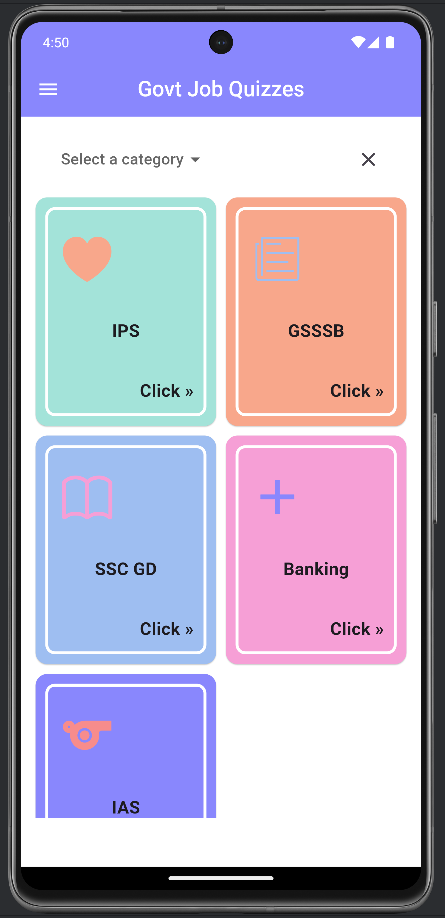
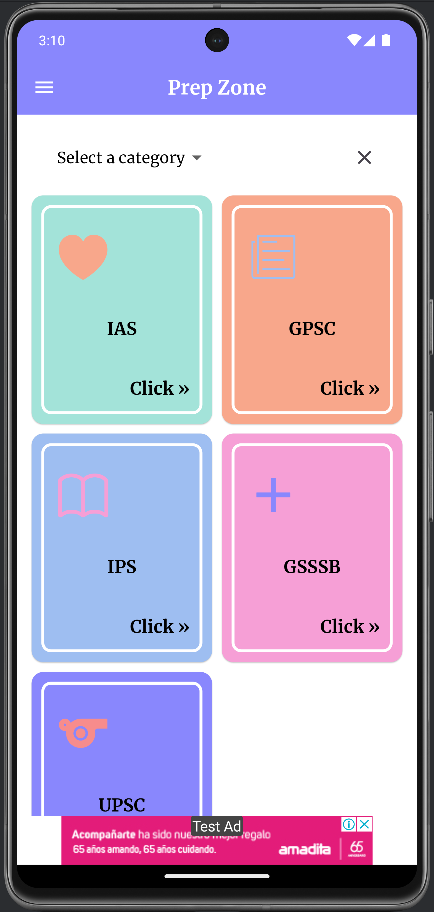
Image and Website name is updated

diff --git a/public/terms_conditions.html b/public/terms_conditions.html
@@ -3,7 +3,7 @@
     <head>
         <meta charset="UTF-8">
         <meta name="viewport" content="width=device-width, initial-scale=1.0">
-        <title>Terms & Conditions - Government Quizzy App</title>
+        <title>Terms & Conditions - Prep Zone</title>
         <link href="https://cdn.jsdelivr.net/npm/bootstrap@5.3.0-alpha1/dist/css/bootstrap.min.css" rel="stylesheet">
     </head>
     <body>
@@ -11,7 +11,7 @@
         <!-- Navbar -->
         <nav class="navbar navbar-expand-lg navbar-light bg-light sticky-top">
             <div class="container">
-                <a class="navbar-brand text-primary fw-bold" href="#">Government Quizzy App</a>
+                <a class="navbar-brand text-primary fw-bold" href="#">Prep Zone</a>
                 <button class="navbar-toggler" type="button" data-bs-toggle="collapse" data-bs-target="#navbarNav" aria-controls="navbarNav" aria-expanded="false" aria-label="Toggle navigation">
                     <span class="navbar-toggler-icon"></span>
                 </button>
@@ -40,7 +40,7 @@
             <hr>
 
             <section>
-                <p>Welcome to the Government Quizzy App ("App"). By accessing or using the App, you agree to these Terms & Conditions. Please read them carefully.</p>
+                <p>Welcome to the Prep Zone ("App"). By accessing or using the App, you agree to these Terms & Conditions. Please read them carefully.</p>
 
                 <h3>1. Purpose of the App</h3>
                 <p>The App provides educational content for exam preparation purposes only. The information provided is for general informational purposes and should not be considered as professional advice.</p>

diff --git a/public/privacy_policy.html b/public/privacy_policy.html
@@ -3,7 +3,7 @@
     <head>
         <meta charset="UTF-8">
         <meta name="viewport" content="width=device-width, initial-scale=1.0">
-        <title>Privacy Policy - Government Quizzy App</title>
+        <title>Privacy Policy - Prep Zone</title>
         <link href="https://cdn.jsdelivr.net/npm/bootstrap@5.3.0-alpha1/dist/css/bootstrap.min.css" rel="stylesheet">
     </head>
     <body>
@@ -12,7 +12,7 @@
         <!-- Navbar -->
         <nav class="navbar navbar-expand-lg navbar-light bg-light sticky-top">
             <div class="container">
-                <a class="navbar-brand text-primary fw-bold" href="#">Government Quizzy App</a>
+                <a class="navbar-brand text-primary fw-bold" href="#">Prep Zone</a>
                 <button class="navbar-toggler" type="button" data-bs-toggle="collapse" data-bs-target="#navbarNav" aria-controls="navbarNav" aria-expanded="false" aria-label="Toggle navigation">
                     <span class="navbar-toggler-icon"></span>
                 </button>
@@ -41,7 +41,7 @@
             <hr>
             
             <section>
-                <p>Your privacy is important to us. This Privacy Policy explains how we handle your personal information when you use the "Government Quizzy App" for exam preparation. By using the App, you agree to this Privacy Policy.</p>
+                <p>Your privacy is important to us. This Privacy Policy explains how we handle your personal information when you use the "Prep Zone" for exam preparation. By using the App, you agree to this Privacy Policy.</p>
 
                 <h3>1. Information We Collect</h3>
                 <ul>

diff --git a/public/index.html b/public/index.html
@@ -3,7 +3,7 @@
     <head>
         <meta charset="UTF-8">
         <meta name="viewport" content="width=device-width, initial-scale=1.0">
-        <title>Government Quizzy App</title>
+        <title>Prep Zone</title>
         <link href="https://cdn.jsdelivr.net/npm/bootstrap@5.3.0-alpha1/dist/css/bootstrap.min.css" rel="stylesheet">
     </head>
     <body>
@@ -11,7 +11,7 @@
         <!-- Navbar -->
         <nav class="navbar navbar-expand-lg navbar-light bg-light sticky-top">
             <div class="container">
-            <a class="navbar-brand text-primary fw-bold" href="#">Government Quizzy App</a>
+            <a class="navbar-brand text-primary fw-bold" href="#">Prep Zone</a>
             <button class="navbar-toggler" type="button" data-bs-toggle="collapse" data-bs-target="#navbarNav" aria-controls="navbarNav" aria-expanded="false" aria-label="Toggle navigation">
                 <span class="navbar-toggler-icon"></span>
             </button>
@@ -91,7 +91,7 @@
 
         <!-- Content -->
         <div class="container my-5">
-            <h1 class="text-center">Welcome to Government Quizzy App</h1>
+            <h1 class="text-center">Welcome to Prep Zone</h1>
             <p class="text-center">Your trusted companion for government exam preparation!</p>
             <p class="text-center">Please check our <a href="privacy_policy.html">Privacy Policy</a> and <a href="terms_conditions.html">Terms & Conditions</a> for more information.</p>
         </div>

diff --git a/public/delete_account.html b/public/delete_account.html
@@ -3,7 +3,7 @@
     <head>
         <meta charset="UTF-8">
         <meta name="viewport" content="width=device-width, initial-scale=1.0">
-        <title>Delete Account - Government Quizzy App</title>
+        <title>Delete Account - Prep Zone</title>
         <link href="https://cdn.jsdelivr.net/npm/bootstrap@5.3.0-alpha1/dist/css/bootstrap.min.css" rel="stylesheet">
         <style>
             .content-section {
@@ -30,7 +30,7 @@
         <!-- Navbar -->
         <nav class="navbar navbar-expand-lg navbar-light bg-light sticky-top">
             <div class="container">
-                <a class="navbar-brand text-primary fw-bold" href="#">Government Quizzy App</a>
+                <a class="navbar-brand text-primary fw-bold" href="#">Prep Zone</a>
                 <button class="navbar-toggler" type="button" data-bs-toggle="collapse" data-bs-target="#navbarNav" aria-controls="navbarNav" aria-expanded="false" aria-label="Toggle navigation">
                     <span class="navbar-toggler-icon"></span>
                 </button>
@@ -113,7 +113,7 @@
         <!-- Footer -->
         <footer class="bg-light py-3">
             <div class="container text-center">
-                <p>&copy; 2024 Government Quizzy App. All Rights Reserved.</p>
+                <p>&copy; 2024 Prep Zone. All Rights Reserved.</p>
             </div>
         </footer>
 
